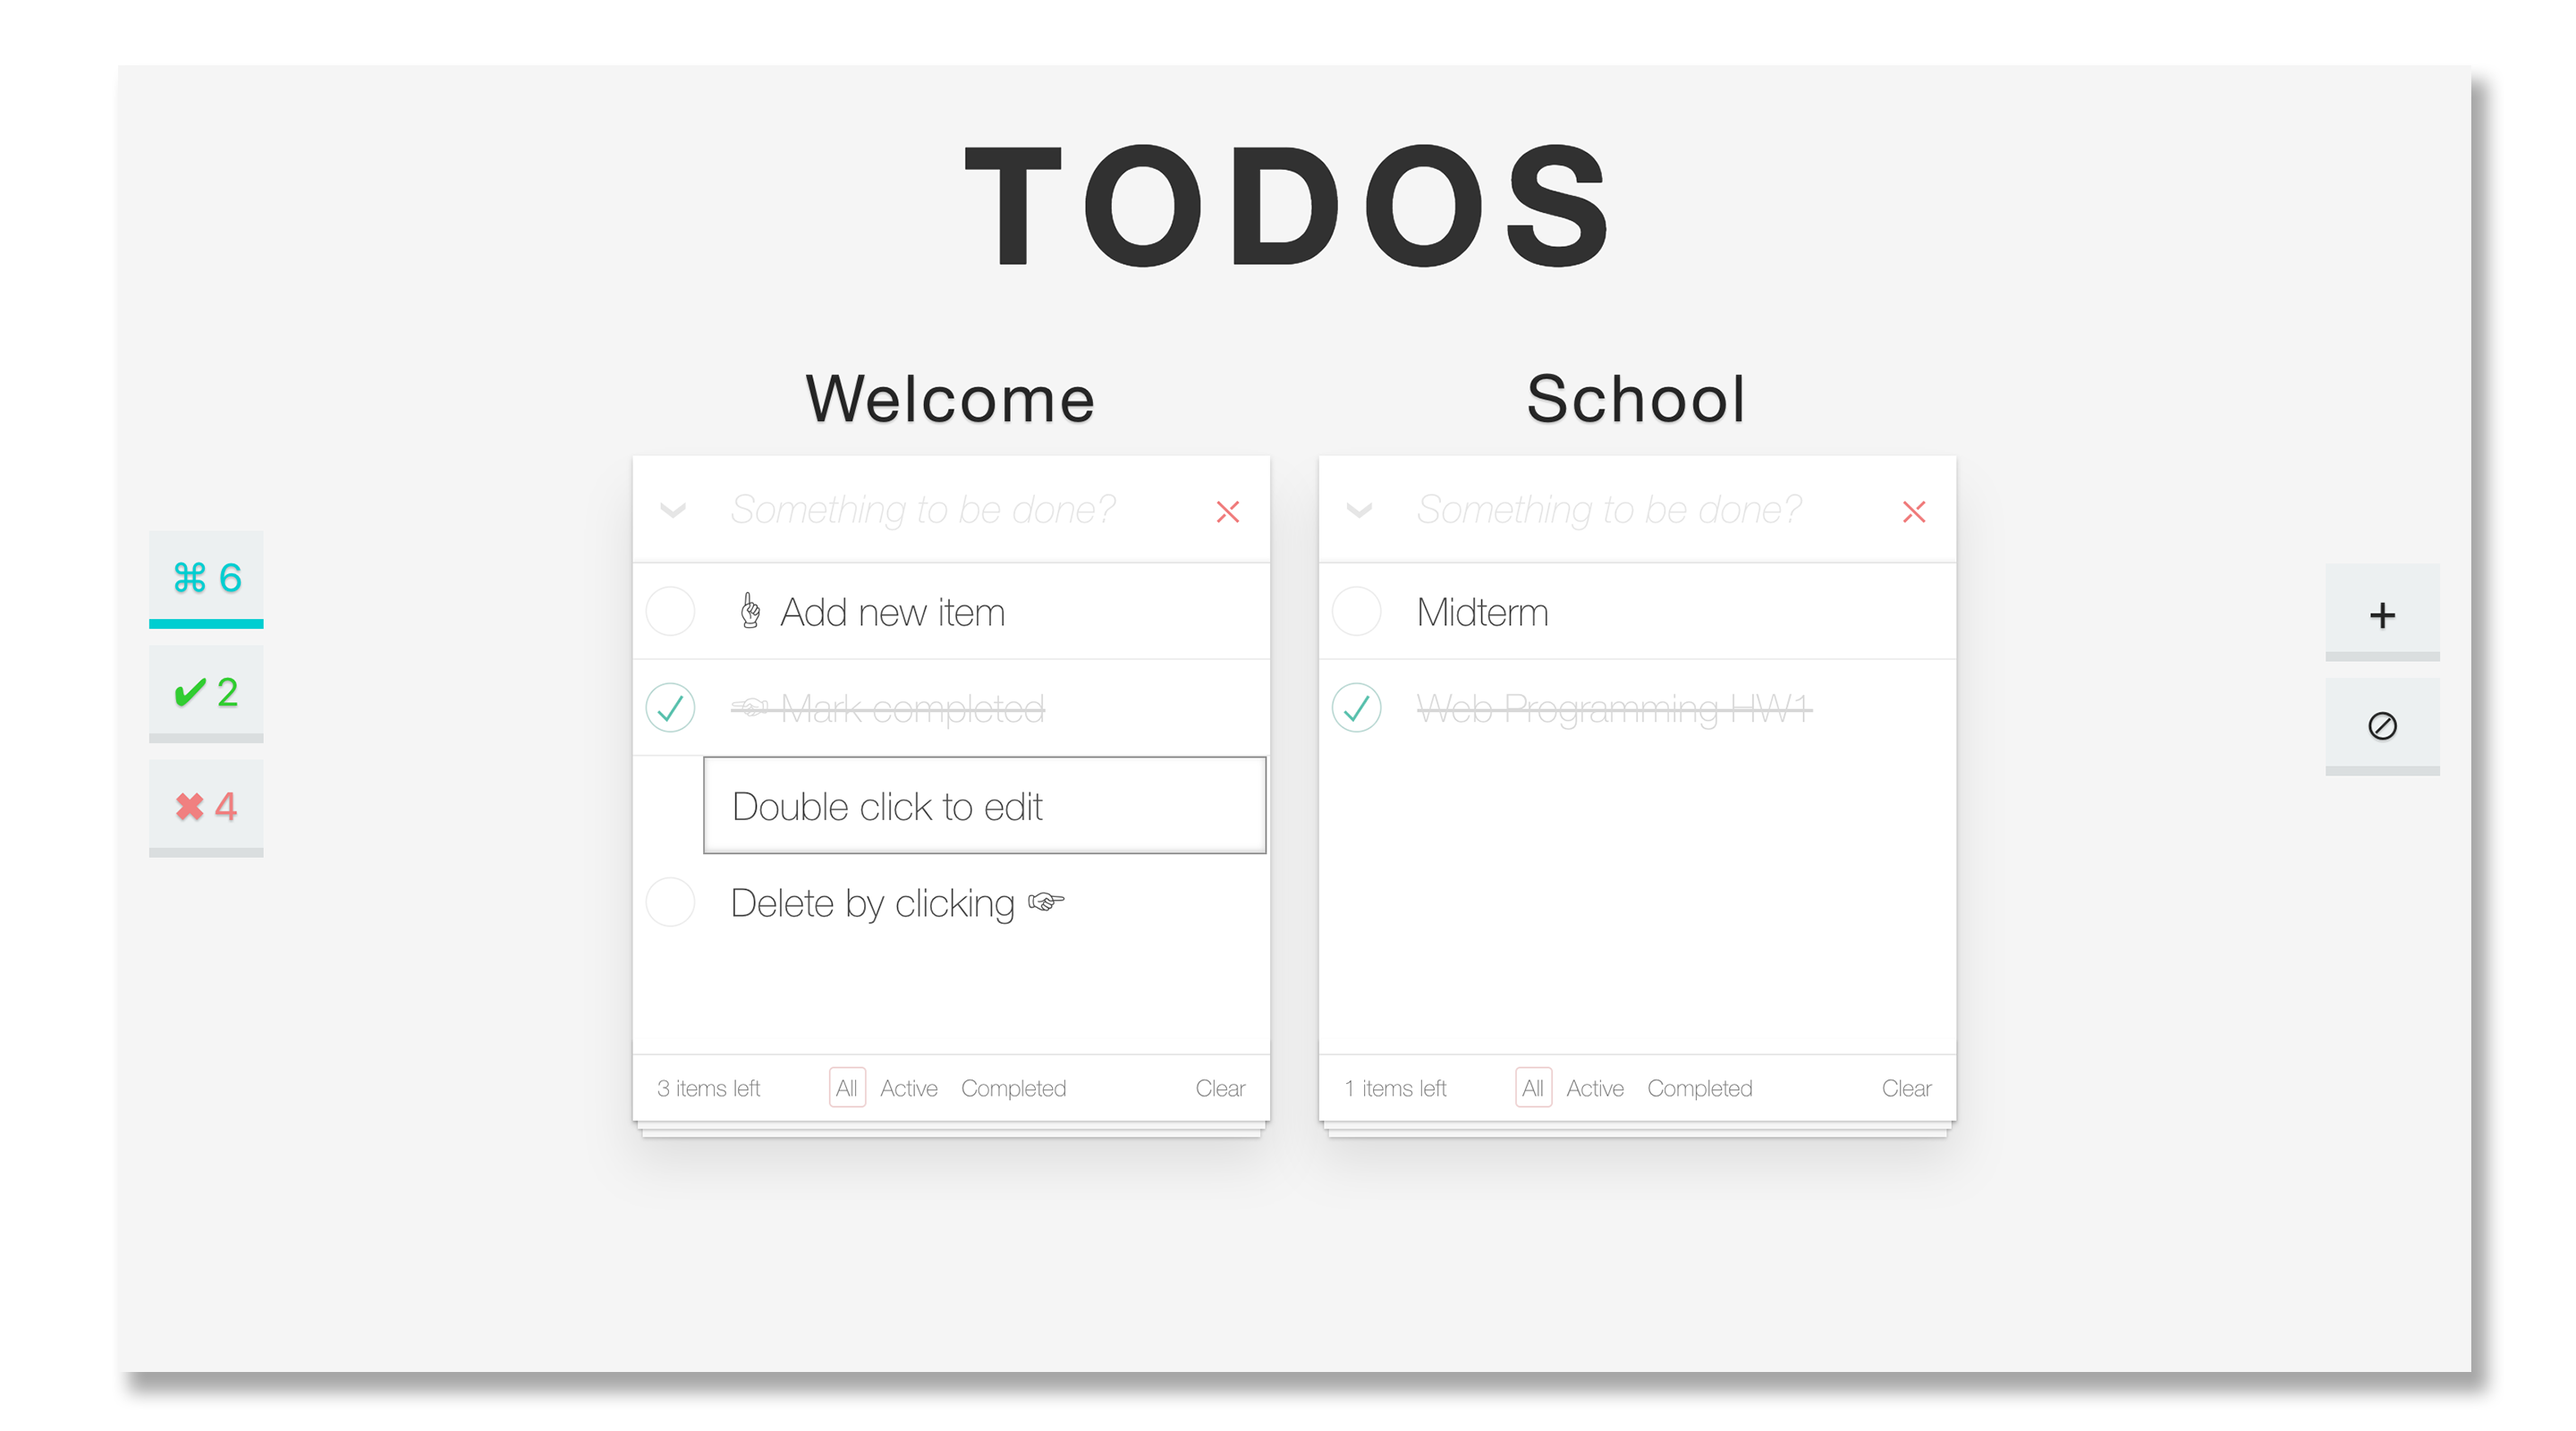
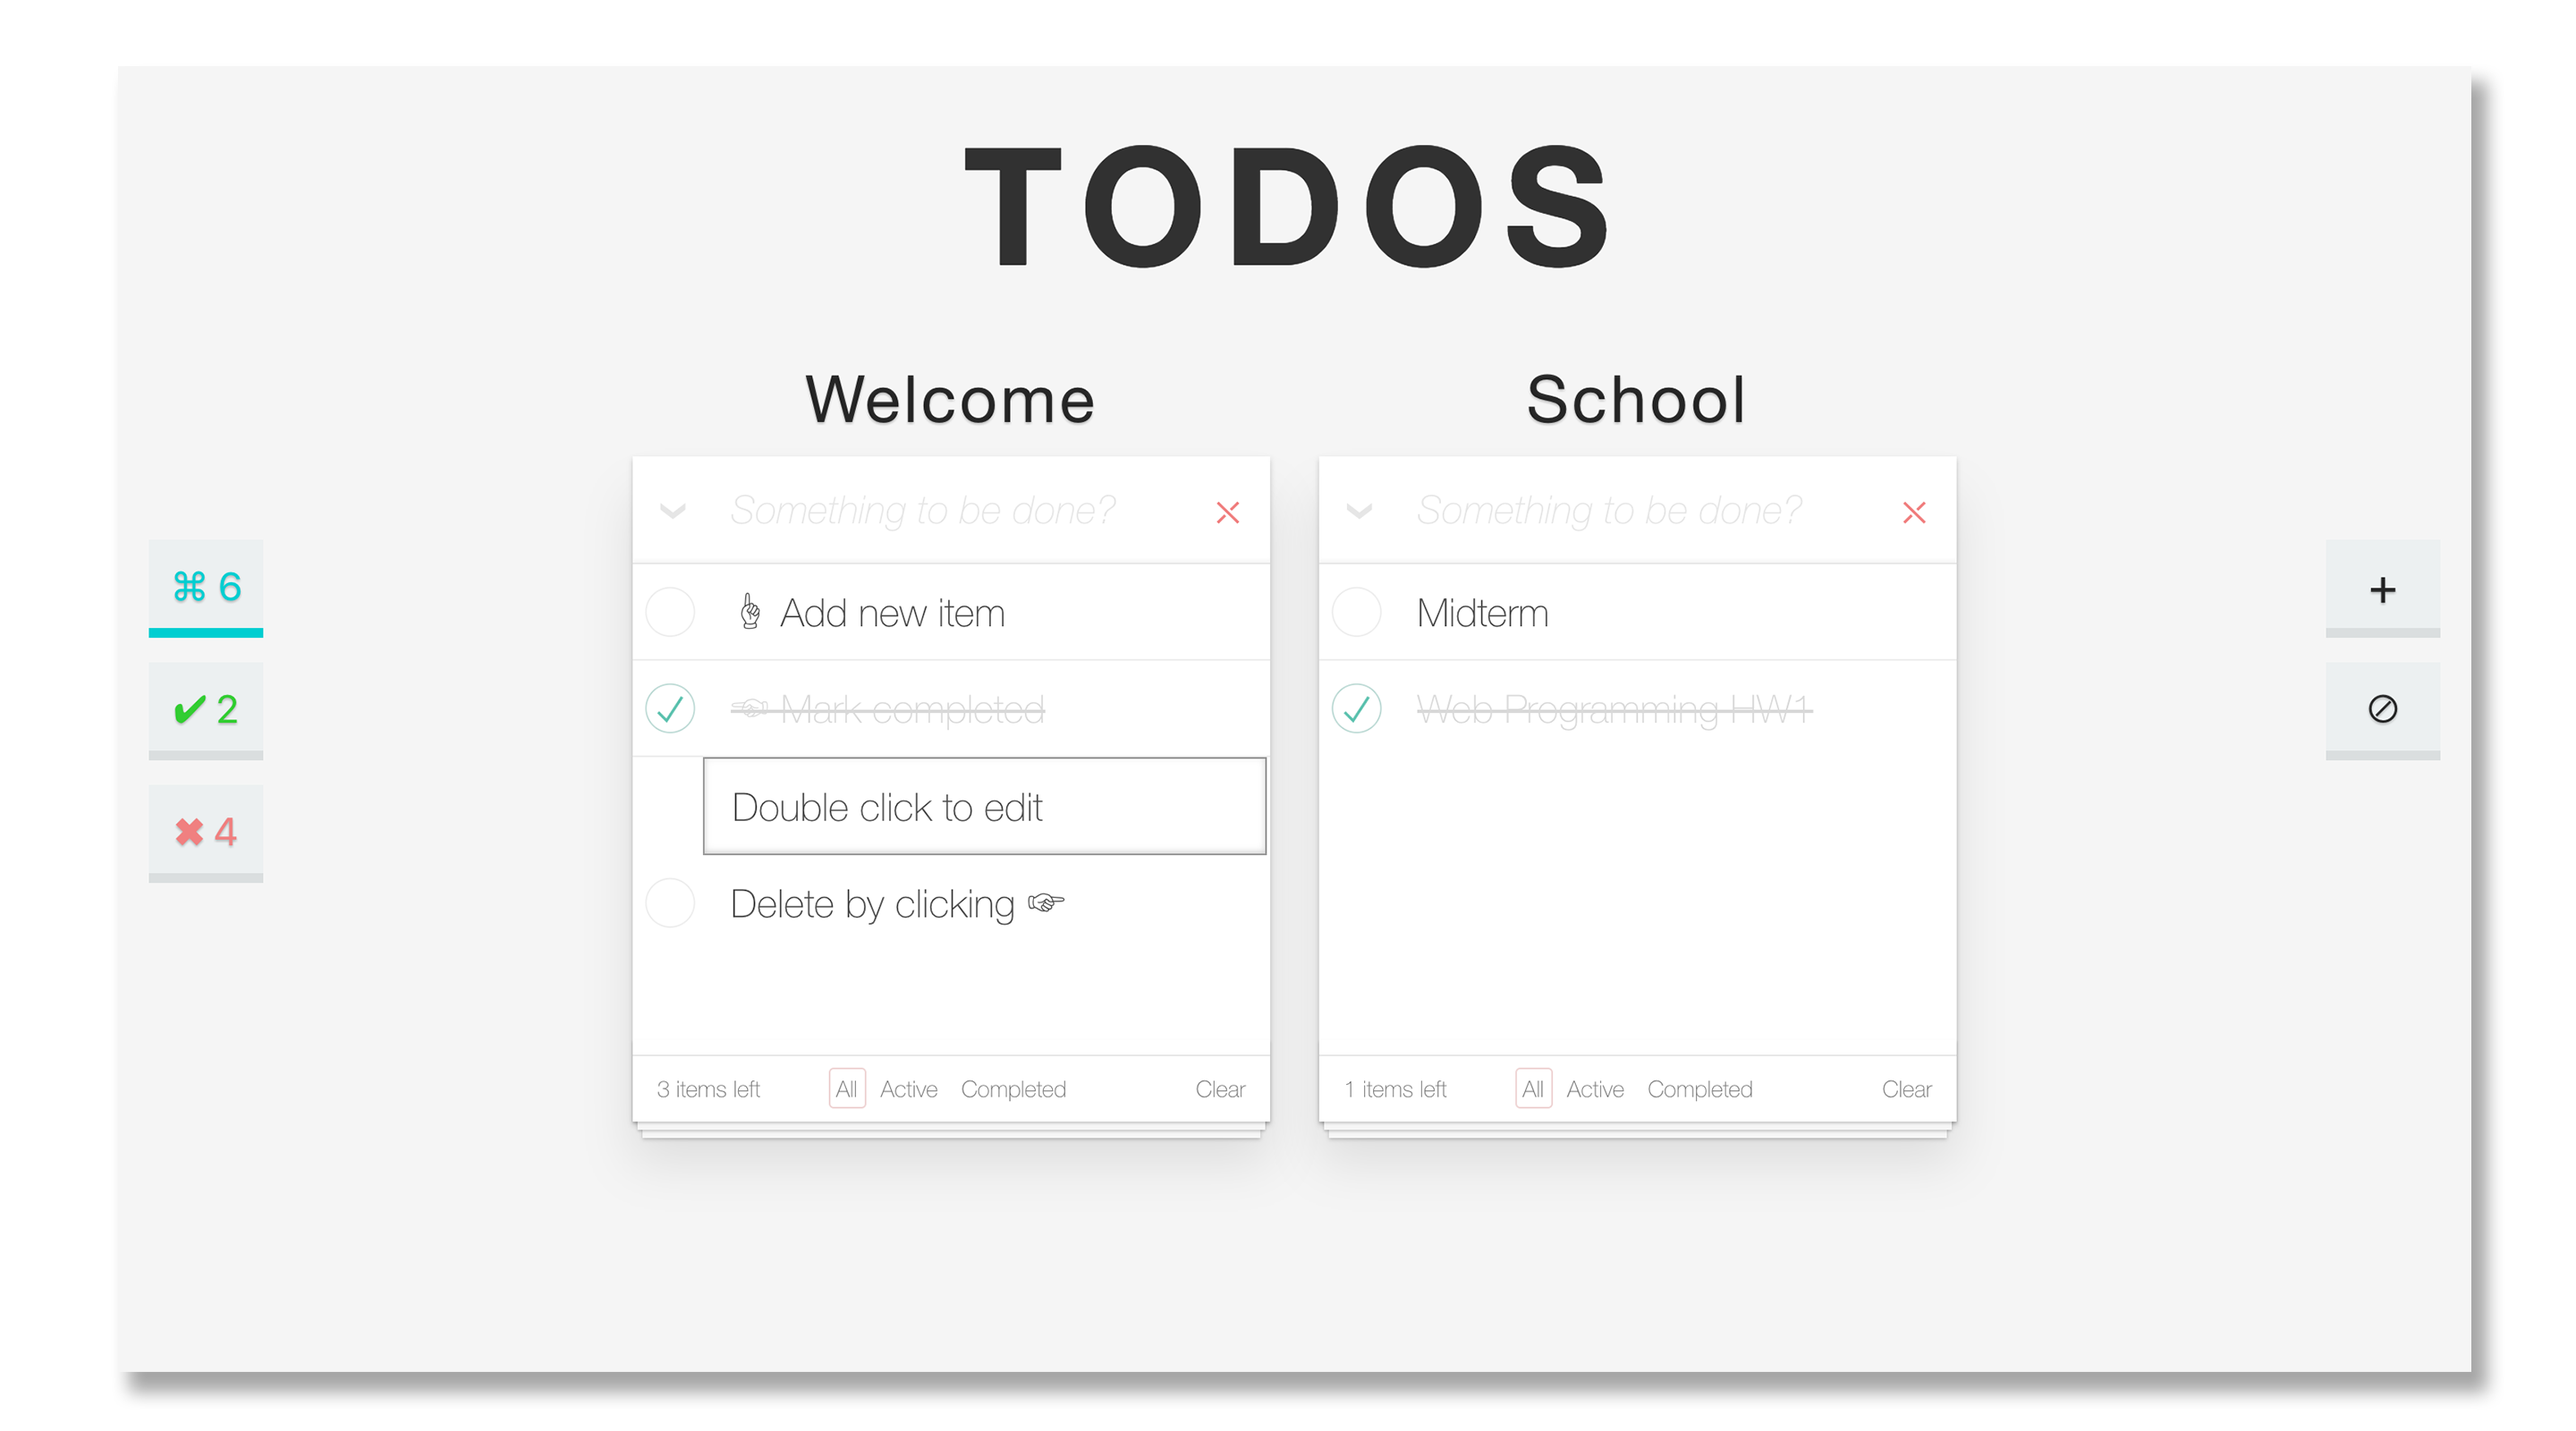
Fix float button size on mobile

diff --git a/src/js/component/TodoList.js b/src/js/component/TodoList.js
@@ -11,25 +11,25 @@ import ClearCompleted from './ClearCompleted';
 
 class TodoList extends Component {
   handleTitle = (text) => {
-    this.props.onPropsChange(text, this.props.todos, this.props.inputText, this.props.titleDone, this.props.nowShowing, this.props.listIdx);
+    this.props.onTitleChange(text);
   }
 
   handleTitleSubmit = (ev) => {
     if (ev.which === 13 || ev.keyCode === 13) {
-      this.props.onPropsChange(this.props.title, this.props.todos, this.props.inputText, true, this.props.nowShowing, this.props.listIdx);
+      this.props.onTitleSubmit(true);
     }
   }
 
   handleTitleUnFocus = () => {
-    this.props.onPropsChange(this.props.title, this.props.todos, this.props.inputText, true, this.props.nowShowing, this.props.listIdx);
+    this.props.onTitleSubmit(true);
   }
 
   handleTitleState = () => {
-    this.props.onPropsChange(this.props.title, this.props.todos, this.props.inputText, false, this.props.nowShowing, this.props.listIdx);
+    this.props.onTitleSubmit(false);
   }
 
   handleInput = (text) => {
-    this.props.onPropsChange(this.props.title, this.props.todos, text, this.props.titleDone, this.props.nowShowing, this.props.listIdx);
+    this.props.onInputChange(text);
   }
 
   handleSubmit = (ev) => {
@@ -40,7 +40,8 @@ class TodoList extends Component {
         value: inputText,
         done: false,
       });
-      this.props.onPropsChange(this.props.title, todos, '', this.props.titleDone, this.props.nowShowing, this.props.listIdx);
+      this.props.onTodosChange(todos);
+      this.props.onInputChange('');
     }
   }
 
@@ -51,38 +52,38 @@ class TodoList extends Component {
       value: checkedItem.value,
       done: !checkedItem.done,
     });
-    this.props.onPropsChange(this.props.title, todos, this.props.inputText, this.props.titleDone, this.props.nowShowing, this.props.listIdx);
+    this.props.onTodosChange(todos);
   }
 
   handleButton = (idx) => {
     let todos = this.props.todos;
     todos.splice(idx, 1);
-    this.props.onPropsChange(this.props.title, todos, this.props.inputText, this.props.titleDone, this.props.nowShowing, this.props.listIdx);
+    this.props.onTodosChange(todos);
   }
 
   handleItemEdit = (idx) => {
     let todos = this.props.todos;
     todos[idx].editing = true;
-    this.props.onPropsChange(this.props.title, todos, this.props.inputText, this.props.titleDone, this.props.nowShowing, this.props.listIdx);
+    this.props.onTodosChange(todos);
   }
 
   handleItemSave = (idx) => {
     let todos = this.props.todos;
     todos[idx].editing = false;
-    this.props.onPropsChange(this.props.title, todos, this.props.inputText, this.props.titleDone, this.props.nowShowing, this.props.listIdx);
+    this.props.onTodosChange(todos);
   }
 
   handleItemChange = (value, idx) => {
     let todos = this.props.todos;
     todos[idx].value = value;
-    this.props.onPropsChange(this.props.title, todos, this.props.inputText, this.props.titleDone, this.props.nowShowing, this.props.listIdx);
+    this.props.onTodosChange(todos);
   }
 
   handleItemKeySave = (ev, idx) => {
     if (ev.which === 13 || ev.keyCode === 13) {
       let todos = this.props.todos;
       todos[idx].editing = false;
-      this.props.onPropsChange(this.props.title, todos, this.props.inputText, this.props.titleDone, this.props.nowShowing, this.props.listIdx);
+      this.props.onTodosChange(todos);
       ev.preventDefault();
     }
   }
@@ -94,7 +95,7 @@ class TodoList extends Component {
       element.done = done;
       array[index] = element;
     });
-    this.props.onPropsChange(this.props.title, todos, this.props.inputText, this.props.titleDone, this.props.nowShowing, this.props.listIdx);
+    this.props.onTodosChange(todos);
   }
 
   handleCloseButton = () => {
@@ -108,7 +109,7 @@ class TodoList extends Component {
   handleClearCompleted = () => {
     let todos = this.props.todos;
     todos = todos.filter((t) => !t.done);
-    this.props.onPropsChange(this.props.title, todos, this.props.inputText, this.props.titleDone, this.props.nowShowing, this.props.listIdx);
+    this.props.onTodosChange(todos);
   }
 
   renderTodoTitle = (done) => {
@@ -139,7 +140,7 @@ class TodoList extends Component {
   renderTodoItem = (input, idx) => {
     return (
       <TodoItem
-        key={ idx }
+        key={ `todo-item-${idx}` }
         content={ input.value }
         done={ input.done }
         editing={ input.editing }

diff --git a/src/js/TodoApp.js b/src/js/TodoApp.js
@@ -65,16 +65,28 @@ class TodoApp extends Component {
     this.setState({ lists });
   }
 
-  handlePropsChange = (title, todos, inputText, titleDone, nowShowing, idx) => {
+  handleTitleChange = (title, idx) => {
     const lists = this.state.lists;
-    lists[idx] = { 
-      title,
-      todos,
-      inputText,
-      titleDone,
-      nowShowing
-    };
-    this.setState({ lists });
+    lists[idx].title = title;
+    this.setState({ lists })
+  }
+
+  handleTitleEditState = (state, idx) => {
+    const lists = this.state.lists;
+    lists[idx].titleDone = state;
+    this.setState({ lists })
+  }
+
+  handleInputChange = (text, idx) => {
+    const lists = this.state.lists;
+    lists[idx].inputText = text;
+    this.setState({ lists })
+  }
+
+  handleTodosChange = (todos, idx) => {
+    const lists = this.state.lists;
+    lists[idx].todos = todos;
+    this.setState({ lists })
   }
 
   handelCloseTodo = (idx) => {
@@ -130,9 +142,12 @@ class TodoApp extends Component {
         inputText={ list.inputText }
         titleDone={ list.titleDone }
         nowShowing={ list.nowShowing }
-        key={ idx }
+        key={ `todo-list-${idx}` }
         listIdx={ idx }
-        onPropsChange={ this.handlePropsChange }
+        onTitleChange={ (title) => this.handleTitleChange(title, idx) }
+        onTitleSubmit={ (state) => this.handleTitleEditState(state, idx) }
+        onInputChange={ (text) => this.handleInputChange(text, idx) }
+        onTodosChange={ (todos) => this.handleTodosChange(todos, idx) }
         onCloseTodo={ this.handelCloseTodo }
         onFilterChange={ (type) => this.handleFilterChange(type, idx) }
       />

diff --git a/src/css/todo.css b/src/css/todo.css
@@ -203,16 +203,14 @@ input[type="checkbox"] {
 	position: fixed;
 	top: 35%;
 	left: 14px;
-	z-index: 1;
 }
 
 .buttons-right {
 	display: flex;
 	flex-direction: column;
 	position: fixed;
-	bottom: 45%;
+	top: 35%;
 	right: 14px;
-	z-index: 1;
 }
 
 .clouds-flat-button {
@@ -221,7 +219,7 @@ input[type="checkbox"] {
   width: 70px;
   height: 60px;
   padding: 0;
-	margin: 5px;
+	margin: 10px 5px 5px 5px;
   font-size: 24px;
 	font-weight: 400;
   color:rgba(0, 0, 0, 0.8);
@@ -729,27 +727,23 @@ html .clear-completed:active {
 	}
 
 	.buttons-left {
-		transform: translate3d(0,0,0);
-		position: fixed;
-		top: 35%;
+		top: 40%;
 		left: 5px;
 	}
 
 	.buttons-right {
-		transform: translate3d(0,0,0);
-		position: fixed;
 		top: 40%;
 		right: 5px;
 	}
 
 	.buttons-left .clouds-flat-button {
-		height: 40px;
+		height: 30px;
 		width: 30px;
 		font-size: 8px;
 	}
 
 	.buttons-right .clouds-flat-button {
-		height: 40px;
+		height: 30px;
 		width: 30px;
 		font-size: 10px;
 	}
